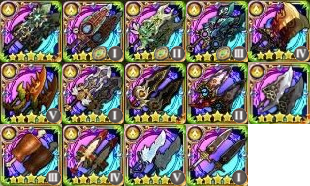
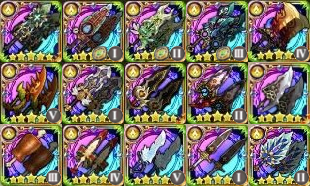
Update

Changed region(s): [[0.7839, 0.6452, 1.0, 1.0]]

diff --git a/docs/list-weapons-jp.md b/docs/list-weapons-jp.md
@@ -69,6 +69,7 @@
 <img src="https://raw.githubusercontent.com/caelumff/bdfeguides/master/icons/KNG3-12.jpg" width="60" alt="大剣"> | 祝福の聖剣 | IV | - | 対水全体挑発<br>
 <img src="https://raw.githubusercontent.com/caelumff/bdfeguides/master/icons/KNG3-13.jpg" width="60" alt="大剣"> | ヘブンリーソード | V | バフ<br> | 染めリジェネ III<br><img src="https://caelum.s-ul.eu/7tZLFGPP.png" width="25" alt="枠適正"> デュエリング I<br>
 <img src="https://raw.githubusercontent.com/caelumff/bdfeguides/master/icons/KNG3-14.jpg" width="60" alt="大剣"> | 黄金の宝剣 | I | - | 染めファランクス III<br><img src="https://caelum.s-ul.eu/7tZLFGPP.png" width="25" alt="枠適正"> テストゥド I<br>
+<img src="https://raw.githubusercontent.com/caelumff/bdfeguides/master/icons/KNG3-15.jpg" width="60" alt="大剣"> | 軍神の斬馬剣 | II | - | デュエリング III<br>ファランクス II<br><img src="https://caelum.s-ul.eu/7tZLFGPP.png" width="25" alt="枠適正"> セービング I<br>
 
 ## <img src="https://caelum.s-ul.eu/d7KNBOoa.png" width="25" alt="風"> 風大剣
 
@@ -151,7 +152,8 @@
 <img src="https://raw.githubusercontent.com/caelumff/bdfeguides/master/icons/BLM3-11.jpg" width="60" alt="ロッド"> | 黒猫の魔法使い | III | - | ブレイブ II<br>
 <img src="https://raw.githubusercontent.com/caelumff/bdfeguides/master/icons/BLM3-12.jpg" width="60" alt="ロッド"> | ブレッシングホーン | IV | バフ<br> | リロ減少<br>
 <img src="https://raw.githubusercontent.com/caelumff/bdfeguides/master/icons/BLM3-13.jpg" width="60" alt="ロッド"> | ヘブンリーロッド | V | - | アスピル II<br>早口 II<br><img src="https://caelum.s-ul.eu/7tZLFGPP.png" width="25" alt="枠適正"> リミブレ I<br>
-<img src="https://raw.githubusercontent.com/caelumff/bdfeguides/master/icons/BLM3-14.jpg" width="60" alt="ロッド"> | 黄金のカドゥケウス | I | - | 三段<br>魔攻魔防アップ<br>
+<img src="https://raw.githubusercontent.com/caelumff/bdfeguides/master/icons/BLM3-14.jpg" width="60" alt="ロッド"> | 黄金のカドゥケウス | I | - | 三段<br>魔攻魔防アップ<br><img src="https://caelum.s-ul.eu/7tZLFGPP.png" width="25" alt="枠適正"> 会心 I<br>
+<img src="https://raw.githubusercontent.com/caelumff/bdfeguides/master/icons/BLM3-15.jpg" width="60" alt="ロッド"> | 黄龍の龍玉 | II | - | エンパワー II<br>染めエンパワー III<br><img src="https://caelum.s-ul.eu/7tZLFGPP.png" width="25" alt="枠適正"> ブレイブ I<br>
 
 ## <img src="https://caelum.s-ul.eu/d7KNBOoa.png" width="25" alt="風"> 風ロッド
 
@@ -192,7 +194,7 @@
 <img src="https://raw.githubusercontent.com/caelumff/bdfeguides/master/icons/WHM1-11.jpg" width="60" alt="ブック"> | 竜宮の玉手箱 | III | バフ<br> | ヘイスト II<br>デバフ全解除<br>
 <img src="https://raw.githubusercontent.com/caelumff/bdfeguides/master/icons/WHM1-12.jpg" width="60" alt="ブック"> | 蓮の烈火重 | IV | - | 二列回復<br>染め蘇生<br><img src="https://caelum.s-ul.eu/7tZLFGPP.png" width="25" alt="枠適正"> BP回復<br>
 <img src="https://raw.githubusercontent.com/caelumff/bdfeguides/master/icons/WHM1-13.jpg" width="60" alt="ブック"> | 本日の御品書 | V | - | 回復<br>物攻物防魔攻魔防アップ<br><img src="https://caelum.s-ul.eu/7tZLFGPP.png" width="25" alt="枠適正"> マインド I<br>
-<img src="https://raw.githubusercontent.com/caelumff/bdfeguides/master/icons/WHM1-14.jpg" width="60" alt="ブック"> | 封魔の絵巻 | I | - | 染めブレイブ II<br>クイック II<br><img src="https://caelum.s-ul.eu/7tZLFGPP.png" width="25" alt="枠適正"> プラウド I<br>
+<img src="https://raw.githubusercontent.com/caelumff/bdfeguides/master/icons/WHM1-14.jpg" width="60" alt="ブック"> | 封魔の絵巻 | I | - | 染めブレイブ II<br>クイック II<br><img src="https://caelum.s-ul.eu/7tZLFGPP.png" width="25" alt="枠適正"> 自身プラウド I<br>
 <img src="https://raw.githubusercontent.com/caelumff/bdfeguides/master/icons/Rose3.jpg" width="60" alt="ブック"> | **[期間限定]** 情熱の愛書 | 無 | 攻撃<br> | ヒールエリア<br>
 <img src="https://raw.githubusercontent.com/caelumff/bdfeguides/master/icons/Fairy3.jpg" width="60" alt="ブック"> | **[期間限定]** フェアリーズ・グリモア | I | - | 回復<br>デバフ全解除<br>BP +<br>
 
@@ -214,7 +216,7 @@
 <img src="https://raw.githubusercontent.com/caelumff/bdfeguides/master/icons/WHM2-12.jpg" width="60" alt="ブック"> | スペースデッドストック | 無 | - | 回復<br>染めデフォルト III<br>
 <img src="https://raw.githubusercontent.com/caelumff/bdfeguides/master/icons/WHM2-13.jpg" width="60" alt="ブック"> | ルインブック | IV | 全体<br>攻撃<br> | 全体攻撃<br>染めブレイブデフォルト I<br><img src="https://caelum.s-ul.eu/7tZLFGPP.png" width="25" alt="枠適正"> BP回復<br>
 <img src="https://raw.githubusercontent.com/caelumff/bdfeguides/master/icons/WHM2-14.jpg" width="60" alt="ブック"> | イニシエの設計図 | V | - | 二列回復<br>染めブレイブ III<br><img src="https://caelum.s-ul.eu/7tZLFGPP.png" width="25" alt="枠適正"> マインド I<br>
-<img src="https://raw.githubusercontent.com/caelumff/bdfeguides/master/icons/WHM2-15.jpg" width="60" alt="ブック"> | 名探偵の秘密道具 | I | 攻撃<br> | BP回復<br>ヘイスト I<br><img src="https://caelum.s-ul.eu/7tZLFGPP.png" width="25" alt="枠適正"> プラウド I<br>
+<img src="https://raw.githubusercontent.com/caelumff/bdfeguides/master/icons/WHM2-15.jpg" width="60" alt="ブック"> | 名探偵の秘密道具 | I | 攻撃<br> | BP回復<br>ヘイスト I<br><img src="https://caelum.s-ul.eu/7tZLFGPP.png" width="25" alt="枠適正"> 自身プラウド I<br>
 <img src="https://raw.githubusercontent.com/caelumff/bdfeguides/master/icons/Valkyrie3.jpg" width="60" alt="ブック"> | **[期間限定]** 禁呪の書 | I | - | 回復<br>蘇生<br>ヒールエリア<br>
 
 ## <img src="https://caelum.s-ul.eu/hLKNs6KH.png" width="25" alt="土"> 土ブック
@@ -234,7 +236,8 @@
 <img src="https://raw.githubusercontent.com/caelumff/bdfeguides/master/icons/WHM3-11.jpg" width="60" alt="ブック"> | 黒猫の足音 | III | - | 二列<br>ブレイブ II<br>プラウド II<br>
 <img src="https://raw.githubusercontent.com/caelumff/bdfeguides/master/icons/WHM3-12.jpg" width="60" alt="ブック"> | 祝福の聖歌 | IV | - | 二列回復<br>BP回復<br>
 <img src="https://raw.githubusercontent.com/caelumff/bdfeguides/master/icons/WHM3-13.jpg" width="60" alt="ブック"> | ヘブンリーレコード | V | 攻撃<br> | 回復<br>デバフ全解除<br>デフォルト II<br><img src="https://caelum.s-ul.eu/7tZLFGPP.png" width="25" alt="枠適正"> マインド I<br>
-<img src="https://raw.githubusercontent.com/caelumff/bdfeguides/master/icons/WHM3-14.jpg" width="60" alt="ブック"> | 黄金のパピルス | I | 攻撃<br> | 回復<br>エンハンスエリア II<br><img src="https://caelum.s-ul.eu/7tZLFGPP.png" width="25" alt="枠適正"> プラウド I<br>
+<img src="https://raw.githubusercontent.com/caelumff/bdfeguides/master/icons/WHM3-14.jpg" width="60" alt="ブック"> | 黄金のパピルス | I | 攻撃<br> | 回復<br>エンハンスエリア II<br><img src="https://caelum.s-ul.eu/7tZLFGPP.png" width="25" alt="枠適正"> 自身プラウド I<br>
+<img src="https://raw.githubusercontent.com/caelumff/bdfeguides/master/icons/WHM3-15.jpg" width="60" alt="ブック"> | 軍師の兵法書 | II | - | 染めデフォルト III<br>クイック II<br><img src="https://caelum.s-ul.eu/7tZLFGPP.png" width="25" alt="枠適正"> 自身デフォルト I<br>
 
 ## <img src="https://caelum.s-ul.eu/d7KNBOoa.png" width="25" alt="風"> 風ブック
 
@@ -253,7 +256,7 @@
 <img src="https://raw.githubusercontent.com/caelumff/bdfeguides/master/icons/WHM4-11.jpg" width="60" alt="ブック"> | レジェンドグリモア | 無 | 二列<br> | 回復<br>物攻物防魔攻魔防アップ<br>
 <img src="https://raw.githubusercontent.com/caelumff/bdfeguides/master/icons/WHM4-12.jpg" width="60" alt="ブック"> | チョコアソート | IV | バフ<br> | 二列<br>最大HP/BPアップ<br><img src="https://caelum.s-ul.eu/7tZLFGPP.png" width="25" alt="枠適正"> BP回復<br>
 <img src="https://raw.githubusercontent.com/caelumff/bdfeguides/master/icons/WHM4-13.jpg" width="60" alt="ブック"> | 創造の写本 | V | 攻撃<br> | 攻撃<br>染めブレイブデフォルト I<br>染めクイック II<br>
-<img src="https://raw.githubusercontent.com/caelumff/bdfeguides/master/icons/WHM4-14.jpg" width="60" alt="ブック"> | インワンダーランド | I | - | 二列回復<br>染め蘇生<br>染め物攻物防精神アップ<br><img src="https://caelum.s-ul.eu/7tZLFGPP.png" width="25" alt="枠適正"> プラウド I<br>
+<img src="https://raw.githubusercontent.com/caelumff/bdfeguides/master/icons/WHM4-14.jpg" width="60" alt="ブック"> | インワンダーランド | I | - | 二列回復<br>染め蘇生<br>染め物攻物防精神アップ<br><img src="https://caelum.s-ul.eu/7tZLFGPP.png" width="25" alt="枠適正"> 自身プラウド I<br>
 <img src="https://raw.githubusercontent.com/caelumff/bdfeguides/master/icons/Chocobo3.jpg" width="60" alt="ブック"> | **[期間限定]** チョコボメモリア | I | - | 回復<br>ブレイブ I<br>デフォルト I<br>
 <img src="https://raw.githubusercontent.com/caelumff/bdfeguides/master/icons/Rinne3.jpg" width="60" alt="ブック"> | **[期間限定]** リンネのキセキ | 無 | - | 回復<br>ブレイブ II<br>BP回復<br>
 
@@ -318,6 +321,7 @@
 <img src="https://raw.githubusercontent.com/caelumff/bdfeguides/master/icons/THF3-12.jpg" width="60" alt="双剣"> | 祝福の礼剣 | IV | 三段<br> | 全体<br><img src="https://caelum.s-ul.eu/7tZLFGPP.png" width="25" alt="枠適正"> 味方全体クイック I<br>
 <img src="https://raw.githubusercontent.com/caelumff/bdfeguides/master/icons/THF3-13.jpg" width="60" alt="双剣"> | ヘブンリーエッジ | V | - | 列アサルト III<br><img src="https://caelum.s-ul.eu/7tZLFGPP.png" width="25" alt="枠適正"> シャドウ I<br>
 <img src="https://raw.githubusercontent.com/caelumff/bdfeguides/master/icons/THF3-14.jpg" width="60" alt="双剣"> | 黄金のケペシュ | I | - | 双剣の構え<br><img src="https://caelum.s-ul.eu/7tZLFGPP.png" width="25" alt="枠適正"> アサルト I<br>
+<img src="https://raw.githubusercontent.com/caelumff/bdfeguides/master/icons/THF3-15.jpg" width="60" alt="双剣"> | 智将の羽扇刀 | II | - | シャドウ III<br><img src="https://caelum.s-ul.eu/7tZLFGPP.png" width="25" alt="枠適正"> チャージ<br>
 
 ## <img src="https://caelum.s-ul.eu/d7KNBOoa.png" width="25" alt="風"> 風双剣
 
@@ -401,6 +405,7 @@
 <img src="https://raw.githubusercontent.com/caelumff/bdfeguides/master/icons/RNG3-12.jpg" width="60" alt="弓"> | スターオブキャロル | IV | 全体<br> | 全体<br>ウィークネス II<br><img src="https://caelum.s-ul.eu/7tZLFGPP.png" width="25" alt="枠適正"> デバフ延長<br>
 <img src="https://raw.githubusercontent.com/caelumff/bdfeguides/master/icons/RNG3-13.jpg" width="60" alt="弓"> | ヘブンリーアロー | V | - | 染めウィークネス III<br><img src="https://caelum.s-ul.eu/7tZLFGPP.png" width="25" alt="枠適正"> ホークアイ I<br>
 <img src="https://raw.githubusercontent.com/caelumff/bdfeguides/master/icons/RNG3-14.jpg" width="60" alt="弓"> | 黄金の光弓 | I | - | 土チェイサー II<br><img src="https://caelum.s-ul.eu/7tZLFGPP.png" width="25" alt="枠適正"> スロウ I<br>
+<img src="https://raw.githubusercontent.com/caelumff/bdfeguides/master/icons/RNG3-15.jpg" width="60" alt="弓"> | 勾龍の強弓 | II | - | バフ全解除<br>呪いの檻<br><img src="https://caelum.s-ul.eu/7tZLFGPP.png" width="25" alt="枠適正"> フォースレス I<br>
 
 ## <img src="https://caelum.s-ul.eu/d7KNBOoa.png" width="25" alt="風"> 風弓
 

diff --git a/docs/list-names.md b/docs/list-names.md
@@ -46,7 +46,7 @@
 [Lotus](#-lotus) | [Sergeant Keroro](#-sergeant-keroro) | [Christmas 2018](#-christmas-2018) | [Valentine's 2019](#-valentines-2019)
 [Retro Modern](#-retro-modern) | [Bravely Default Praying Brage](#-bravely-default-praying-brage) | [Danmachi](#-danmachi) | [Dress Up](#-dress-up)
 [Eastern Mystery](#-eastern-mystery) | [Steampunk](#-steampunk) | [Golden](#-golden) | [Wonderland](#-wonderland)
-[Rose](#-rose) | [Detective](#-detective) | \- | [Final Fantasy Brave Exvius](#-final-fantasy-brave-exvius)
+[Rose](#-rose) | [Detective](#-detective) | [Sangoku](#-sangoku) | [Final Fantasy Brave Exvius](#-final-fantasy-brave-exvius)
 [1st Anniversary](#-1st-anniversary) | [Valkyrie Profile](#-valkyrie-profile) | \- | [2nd Anniversary](#-2nd-anniversary)
 
 # Fire Weapons
@@ -559,6 +559,17 @@ EQ | Names
 <img src="https://raw.githubusercontent.com/caelumff/bdfeguides/master/icons/WHM3-14.jpg" width="60" alt="Book"> | <a href="list-weapons.md#-earth-books">黄金のパピルス</a><br>Golden Papyrus
 <img src="https://raw.githubusercontent.com/caelumff/bdfeguides/master/icons/THF3-14.jpg" width="60" alt="Dagger"> | <a href="list-weapons.md#-earth-daggers">黄金のケペシュ</a><br>Golden Khopesh
 <img src="https://raw.githubusercontent.com/caelumff/bdfeguides/master/icons/RNG3-14.jpg" width="60" alt="Bow"> | <a href="list-weapons.md#-earth-bows">黄金の光弓</a><br>Golden Bow
+
+## <img src="https://caelum.s-ul.eu/hLKNs6KH.png" width="25" alt="Earth"> Sangoku
+**Slot: 2**<br>This series is based on Romance of the Three Kingdoms
+
+EQ | Names
+:-:|---
+<img src="https://raw.githubusercontent.com/caelumff/bdfeguides/master/icons/KNG3-15.jpg" width="60" alt="Sword"> | <a href="list-weapons.md#-earth-swords">軍神の斬馬剣</a><br>War God's Horse-slaying Sword
+<img src="https://raw.githubusercontent.com/caelumff/bdfeguides/master/icons/BLM3-15.jpg" width="60" alt="Rod"> | <a href="list-weapons.md#-earth-rods">黄龍の龍玉</a><br>Yellow Dragon's Jade
+<img src="https://raw.githubusercontent.com/caelumff/bdfeguides/master/icons/WHM3-15.jpg" width="60" alt="Book"> | <a href="list-weapons.md#-earth-books">軍師の兵法書</a><br>War Strategy Book
+<img src="https://raw.githubusercontent.com/caelumff/bdfeguides/master/icons/THF3-15.jpg" width="60" alt="Dagger"> | <a href="list-weapons.md#-earth-daggers">智将の羽扇刀</a><br>Strategist's Fan Blade
+<img src="https://raw.githubusercontent.com/caelumff/bdfeguides/master/icons/RNG3-15.jpg" width="60" alt="Bow"> | <a href="list-weapons.md#-earth-bows">勾龍の強弓</a><br>Dragon Hook Bow
 
 
 # Wind Weapons
